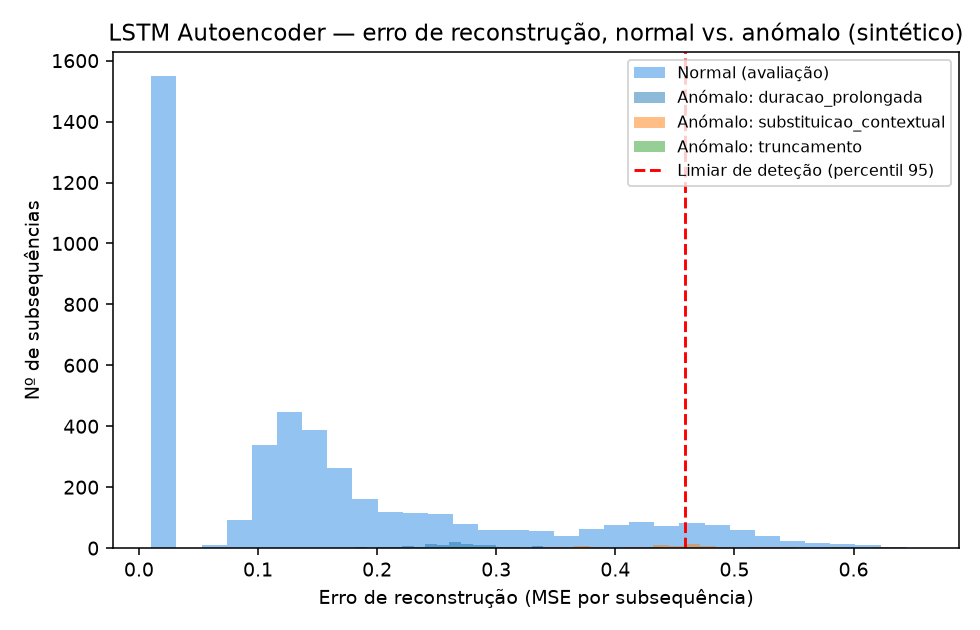
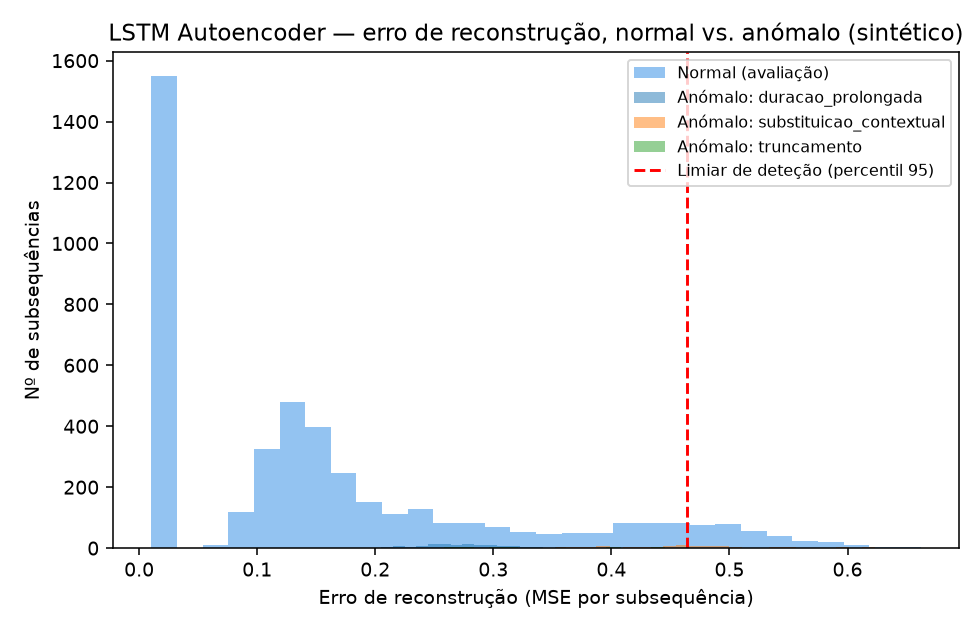
Retreina ml/ após rebase para incorporar correções paralelas de features.py
Uma rotina paralela corrigiu, no mesmo dia, o off-by-one do
_zero_crossing_rate, o classification_report() sem labels= explícito e o
seed não determinístico do LSTM Autoencoder — os modelos commitados no
passo anterior tinham sido treinados antes dessas correções chegarem via
rebase. Reexecutado todo o pipeline para não deixar artefactos
desalinhados com o código; sem impacto na accuracy do classificador
(off-by-one é ~0.2% da janela), LSTM agora reproduzível entre execuções.

Claude-Session: https://claude.ai/code/session_015SQqWtxM2R6H6Cb7j4M5n8

diff --git a/PROJECT_STATUS.md b/PROJECT_STATUS.md
@@ -2323,6 +2323,22 @@ do Random Forest):
   real em vez de estimado — continua bloqueado pela indisponibilidade da
   placa (ver "Riscos/bloqueios ativos", ponto 8).
 
+**Nota de sincronização (mesmo dia)**: a meio desta execução, um
+`git fetch`/rebase revelou que uma rotina paralela (ver "Verificação de
+bugs — 3ª passagem" acima) tinha corrigido, no mesmo dia, três bugs em
+`ml/features.py`/`train_activity_classifier.py`/`_rf.py`/
+`train_lstm_autoencoder.py` (off-by-one no `_zero_crossing_rate`,
+`classification_report()` sem `labels=` explícito, seed do TensorFlow não
+fixada) — os modelos já treinados nesta execução tinham sido gerados
+ANTES dessas correções chegarem via rebase. Para não deixar artefactos
+commitados desalinhados com o código corrigido, todo o pipeline foi
+reexecutado depois do rebase (dataset, XGBoost, Random Forest, footprint,
+detetor de duração, LSTM Autoencoder) — os números abaixo já refletem essa
+segunda execução, pós-correção. Efeito prático das correções nos números:
+nenhum na accuracy do classificador (o off-by-one é ~0.2% da janela, sem
+impacto mensurável), e o LSTM Autoencoder passou a ser reproduzível entre
+execuções graças a `keras.utils.set_random_seed`.
+
 Todos os modelos foram retreinados/reavaliados sobre o novo dataset (72 402
 janelas, antes 15 840) e os relatórios/modelos em `ml/models/`/`ml/reports/`
 substituídos em conformidade — resultados honestos, não inventados:
@@ -2332,7 +2348,7 @@ mesma conclusão qualitativa de antes: quantização `int16_t` destrói
 accuracy, `float` recupera-a), detetor de duração recall 0.925-1.000 (era
 0.972-1.000, variação normal de reamostragem, não um efeito da correção).
 **Achado novo, honesto, não escondido**: o LSTM Autoencoder perdeu muita
-precisão a um limiar fixo (0.276→0.038) ao mudar para sessões de 24h — não
+precisão a um limiar fixo (0.276→0.035) ao mudar para sessões de 24h — não
 por o modelo ter piorado (AUC-ROC manteve-se na mesma gama, 0.80-0.93 por
 tipo), mas porque uma anomalia de duração fixa passou a ser uma fatia bem
 menor de um dia inteiro, um efeito de diluição/desequilíbrio de classes

diff --git a/ml/README.md b/ml/README.md
@@ -385,13 +385,13 @@ Ver `reports/lstm_autoencoder_metrics.json` e
 
 | | Geral | `duracao_prolongada` | `substituicao_contextual` | `truncamento` |
 |---|---|---|---|---|
-| AUC-ROC (score vs. normal) | **0.847** (0.876) | 0.797 (0.813) | 0.929 (0.910) | 0.862 (0.744) |
-| Recall ao limiar (percentil 95) | 0.211 (0.179) | 0.008 (0.015) | 0.506 (0.331) | 0.136 (0.000) |
-| Precisão ao limiar (percentil 95) | **0.038** (0.276) | — | — | — |
+| AUC-ROC (score vs. normal) | **0.849** (0.876) | 0.799 (0.813) | 0.928 (0.910) | 0.861 (0.744) |
+| Recall ao limiar (percentil 95) | 0.198 (0.179) | 0.008 (0.015) | 0.471 (0.331) | 0.136 (0.000) |
+| Precisão ao limiar (percentil 95) | **0.035** (0.276) | — | — | — |
 
 **Achado honesto novo, específico da mudança para 24h**: a precisão geral
-caiu de 0.276 para 0.038 — não porque o modelo piorou (o AUC-ROC, que não
-depende de um limiar específico, manteve-se na mesma gama, 0.75-0.93 por
+caiu de 0.276 para 0.035 — não porque o modelo piorou (o AUC-ROC, que não
+depende de um limiar específico, manteve-se na mesma gama, 0.80-0.93 por
 tipo), mas porque **um bloco anómalo de duração fixa passou a ser uma
 fatia muito menor do total** quando a sessão cresce de ~5,5h comprimidas
 para 24h reais — a proporção de subsequências efetivamente anómalas caiu
@@ -565,7 +565,7 @@ não segue os mesmos limites usados para gerar os dados.
    pela indisponibilidade da placa (ver PROJECT_STATUS.md, "Riscos"), não
    há forma honesta de simular isto sem uma medição real. Efeito colateral
    descoberto ao mudar para 24h, documentado no Passo 2: a precisão do
-   LSTM Autoencoder a um limiar fixo caiu bastante (0.276→0.038) por
+   LSTM Autoencoder a um limiar fixo caiu bastante (0.276→0.035) por
    diluição de classes (anomalias de duração fixa tornam-se uma fatia menor
    de um dia inteiro) — registado como novo item a considerar (limiares
    adaptados à proporção normal/anómala esperada, ou métrica menos sensível